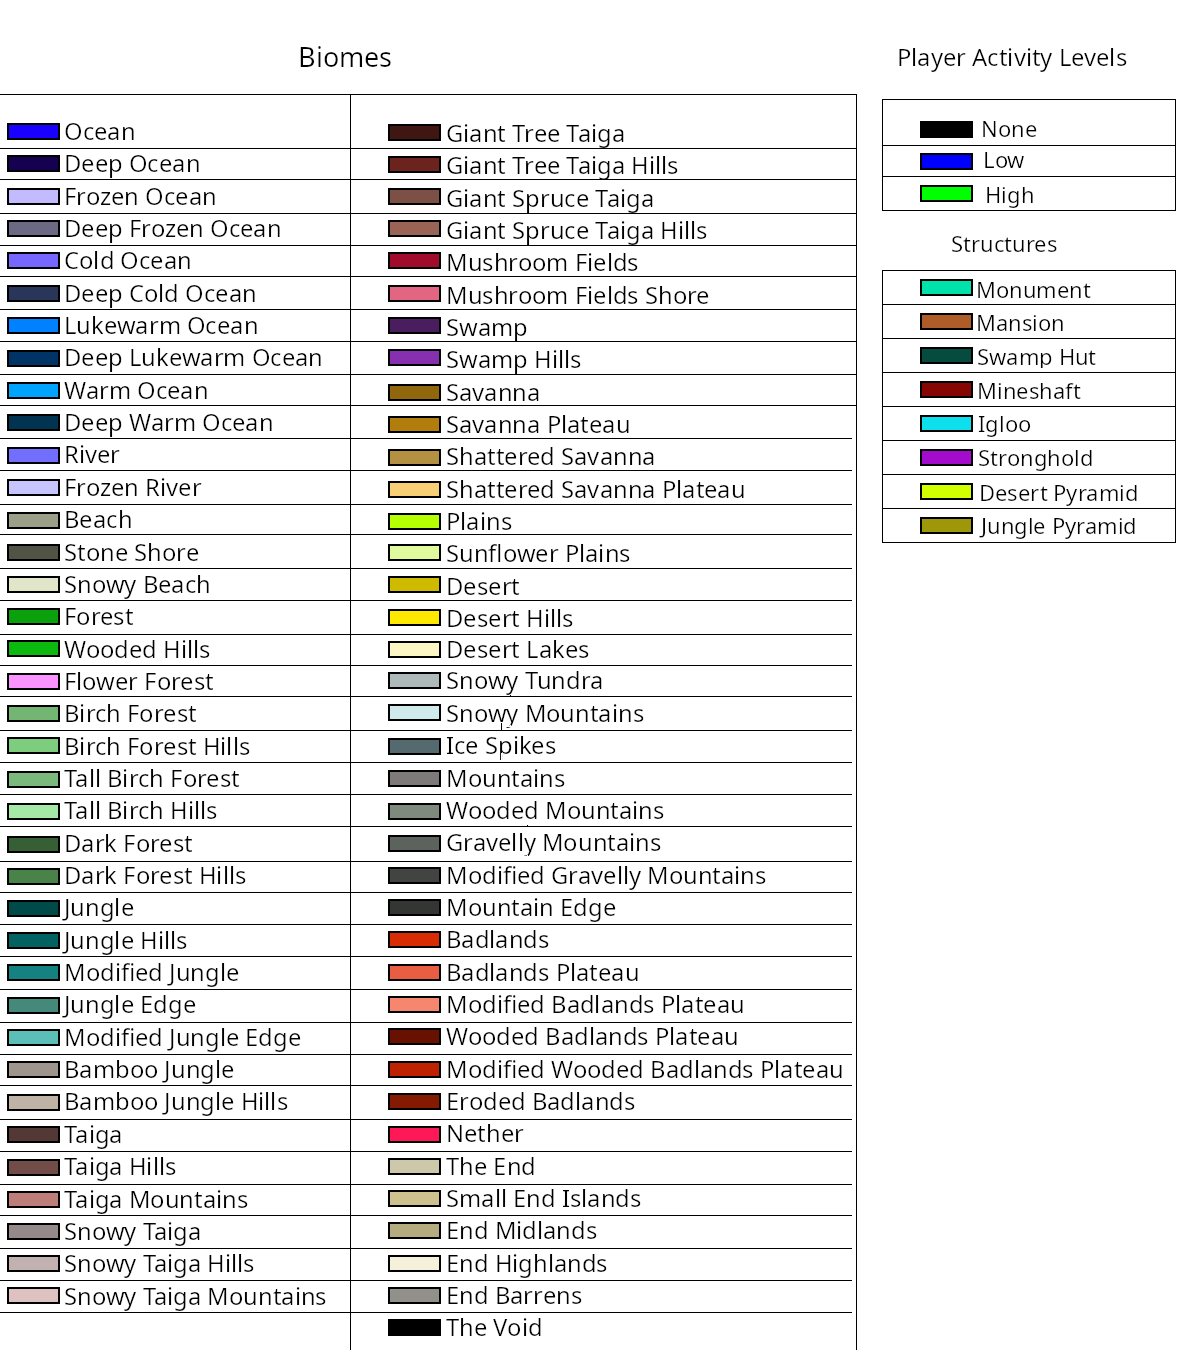
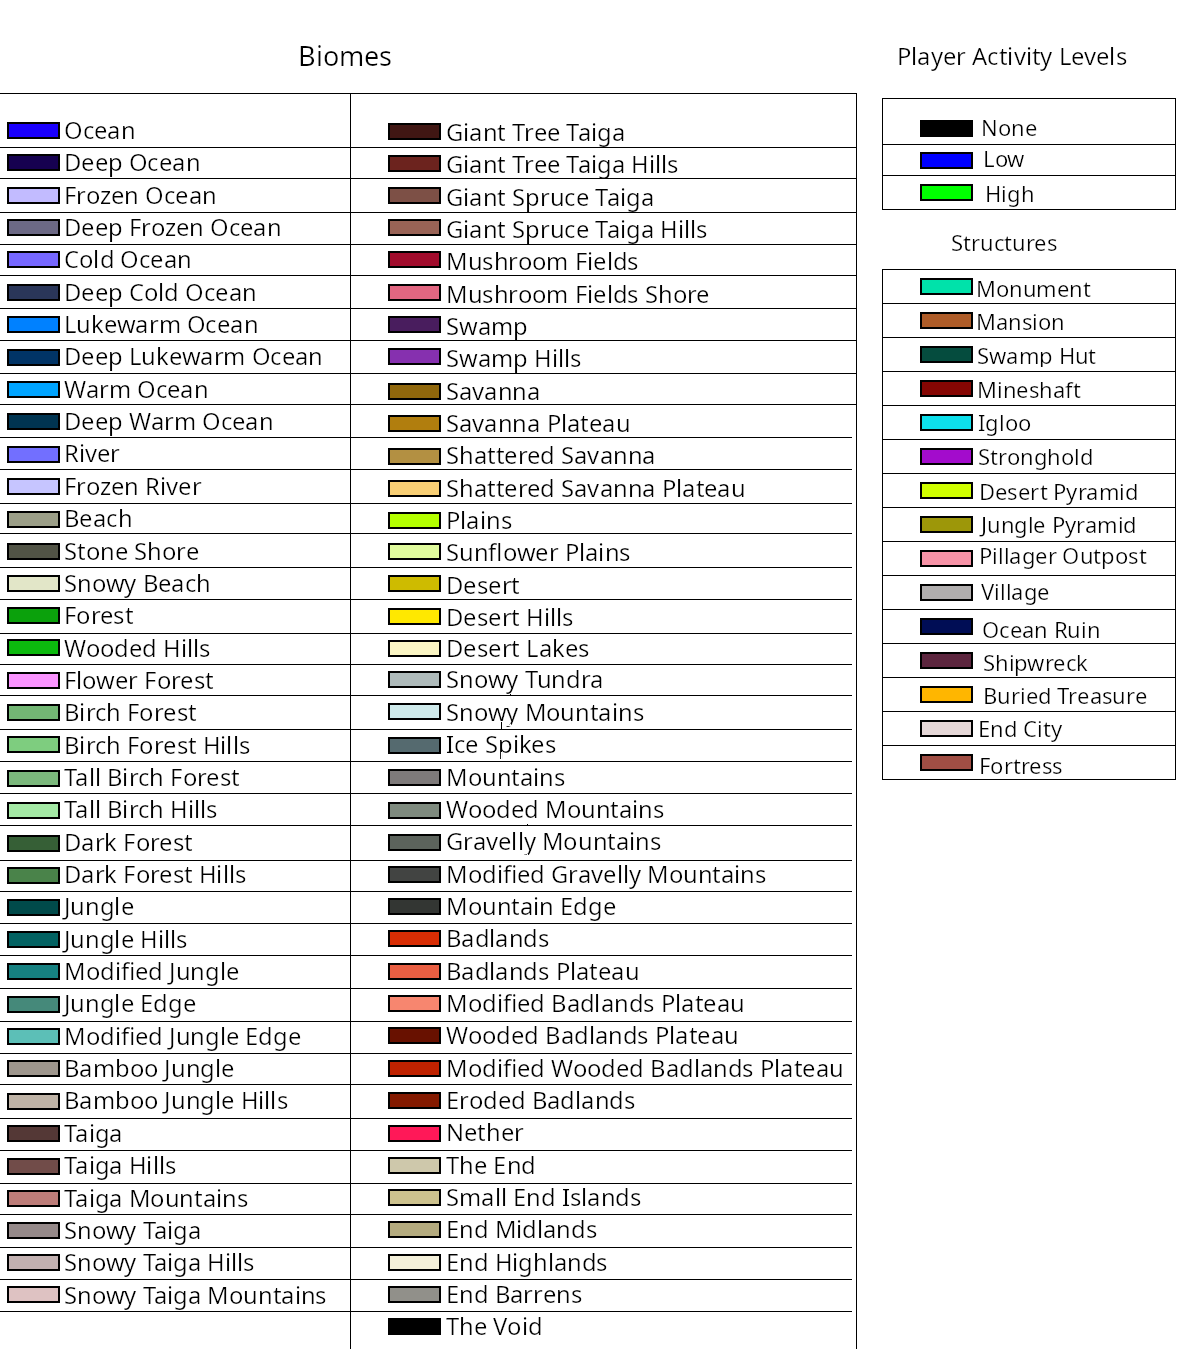
Fixed structure mapping, added missing structure types, updated key

diff --git a/Source/WorldInfo/Structure.cpp b/Source/WorldInfo/Structure.cpp
@@ -24,6 +24,20 @@ std::string structureName(const Structure structure)
             return "Desert_Pyramid";
         case Structure::junglePyramid:
             return "Jungle_Pyramid";
+        case Structure::pillagerOutpost:
+            return "Pillager_Outpost";
+        case Structure::village:
+            return "Village";
+        case Structure::oceanRuin:
+            return "Ocean_Ruin";
+        case Structure::shipwreck:
+            return "Shipwreck";
+        case Structure::buriedTreasure:
+            return "Buried_Treasure";
+        case Structure::endCity:
+            return "EndCity";
+        case Structure::fortress:
+            return "Fortress";
         case Structure::unknown:
             std::cerr << "Invalid structure value.\n";
     };
@@ -43,7 +57,14 @@ Structure parseStructure(const std::string name)
         { "Igloo", Structure::igloo },
         { "Stronghold", Structure::stronghold },
         { "Desert_Pyramid", Structure::desertPyramid },
-        { "Jungle_Pyramid", Structure::junglePyramid }
+        { "Jungle_Pyramid", Structure::junglePyramid },
+        { "Pillager_Outpost", Structure::pillagerOutpost },
+        { "Village", Structure::village },
+        { "Ocean_Ruin", Structure::oceanRuin },
+        { "Shipwreck", Structure::shipwreck },
+        { "Buried_Treasure", Structure::buriedTreasure },
+        { "EndCity", Structure::endCity },
+        { "Fortress", Structure::fortress }
     };
     const auto iter = nameMap.find(name);
     if (iter == nameMap.end())
@@ -76,6 +97,20 @@ png::rgb_pixel getStructureColor(const Structure structure)
                 png::rgb_pixel(0xd0, 0xff, 0x00) },
         { Structure::junglePyramid,
                 png::rgb_pixel(0x9d, 0x97, 0x09) },
+        { Structure::pillagerOutpost,
+                png::rgb_pixel(0x9d, 0x97, 0x09) },
+        { Structure::village,
+                png::rgb_pixel(0xb1, 0xae, 0xae) },
+        { Structure::oceanRuin,
+                png::rgb_pixel(0x00, 0x0d, 0x55) },
+        { Structure::shipwreck,
+                png::rgb_pixel(0x5c, 0x25, 0x3e) },
+        { Structure::buriedTreasure,
+                png::rgb_pixel(0xff, 0xb6, 0x00) },
+        { Structure::endCity,
+                png::rgb_pixel(0xe5, 0xd7, 0xd7) },
+        { Structure::fortress,
+                png::rgb_pixel(0xa0, 0x4e, 0x44) },
     };
     try
     {
@@ -83,7 +118,7 @@ png::rgb_pixel getStructureColor(const Structure structure)
     }
     catch (const std::out_of_range& e)
     {
-        std::cerr << "Invalid structure type " << structure
+        std::cerr << "Invalid structure type " << static_cast<int>(structure)
                 << " encountered.\n";
         return png::rgb_pixel(0, 0, 0);
     }

diff --git a/Source/SaveData/ChunkNBT.cpp b/Source/SaveData/ChunkNBT.cpp
@@ -253,11 +253,17 @@ ChunkData ChunkNBT::getChunkData(const Point pos)
     };
 
     parseTag[NBTTag::tLong] =
-    [this, &readName, &readLong, &lastUpdate, &inhabitedTime]
+    [this, &readName, &readLong, &lastUpdate, &inhabitedTime, &inStructureRefs,
+            &currentStruct, &structures]
     (const bool isNamed)
     {
         std::string name = readName(isNamed);
         std::int64_t longVal = readLong();
+        if(inStructureRefs && currentStruct != Structure::unknown 
+                && !isNamed)
+        {
+            structures.insert(currentStruct);
+        }
         if (name.empty())
         {
             return;
@@ -337,15 +343,7 @@ ChunkData ChunkNBT::getChunkData(const Point pos)
     (const bool isNamed)
     {
         std::string name = readName(isNamed);
-        if (inStructureRefs && currentStructName.empty())
-        {
-            currentStruct = parseStructure(name);
-            if (currentStruct != Structure::unknown)
-            {
-                currentStructName = name;
-            }
-        }
-        else if (!openTags.empty() && openTags.top() == Keys::structure
+        if (!openTags.empty() && openTags.top() == Keys::structure
                 && name == Keys::structureRefs)
         {
             inStructureRefs = true;
@@ -371,10 +369,23 @@ ChunkData ChunkNBT::getChunkData(const Point pos)
     };
 
     parseTag[NBTTag::tLongArray] =
-    [this, &readName, &readByte, &readInt, &parseTag]
+    [this, &readName, &readByte, &readInt, &parseTag, &inStructureRefs,
+            &currentStructName, &currentStruct]
     (const bool isNamed)
     {
         std::string name = readName(isNamed);
+        if (inStructureRefs && currentStructName.empty())
+        {
+            currentStruct = parseStructure(name);
+            if (currentStruct != Structure::unknown)
+            {
+                currentStructName = name;
+            }
+            else
+            {
+                std::cerr << "unknown structure " << name << "\n";
+            }
+        }
         if (name == Keys::biome)
         {
             std::cout << "Found longArray biome list.\n";
@@ -384,16 +395,13 @@ ChunkData ChunkNBT::getChunkData(const Point pos)
         {
             parseTag[NBTTag::tLong](false);
         }
+        currentStruct = Structure::unknown;
+        currentStructName = "";
     };
 
     do
     {
         NBTTag type = static_cast<NBTTag>(readByte());
-        if(inStructureRefs && currentStruct != Structure::unknown 
-                && type != NBTTag::tEnd)
-        {
-            structures.insert(currentStruct);
-        }
         parseTag[type](true);
     }
     while(! openTags.empty() && dataIndex < extractedData.size());

diff --git a/Source/Main.cpp b/Source/Main.cpp
@@ -5,9 +5,7 @@
  */
 
 #include "Debug.h"
-#include "BasicMapper.h"
-#include "BiomeMapper.h"
-#include "ActivityMapper.h"
+#include "MapCollector.h"
 #include "MCAFile.h"
 #include <filesystem>
 #include <string>
@@ -106,14 +104,7 @@ int main(int argc, char** argv)
     {
         imagePath.erase(imagePath.length() - 4);
     }
-    std::string basicPath = imagePath + "_basic.png";
-    BasicMapper basicMapper(basicPath.c_str(), mapEdge, mapEdge, chunkPx);
-    std::string biomePath = imagePath + "_biome.png";
-    BiomeMapper biomeMapper(biomePath.c_str(), mapEdge, mapEdge, chunkPx);
-    std::string activityPath = imagePath + "_activity.png";
-    ActivityMapper activityMapper(activityPath.c_str(), mapEdge, mapEdge,
-            chunkPx);
-
+    MapCollector mappers(imagePath, mapEdge, mapEdge, chunkPx);
 
     // Provide updateCounts so threads can safely change the processed
     // file/chunk counts and print progress.
@@ -137,8 +128,7 @@ int main(int argc, char** argv)
     std::mutex imageLock;
     // Thread function to process a portion of all region files.
     const auto readRegions =
-    [&updateCounts, &regionFiles, &imageLock, &basicMapper, &biomeMapper,
-            &activityMapper]
+    [&updateCounts, &regionFiles, &imageLock, &mappers]
     (const size_t startIndex, const size_t numToRead)
     {
         for (int i = startIndex; i < startIndex + numToRead; i++)
@@ -150,9 +140,7 @@ int main(int argc, char** argv)
             for (const ChunkData& chunk : entryChunks)
             {
                 std::lock_guard<std::mutex> lock(imageLock);
-                basicMapper.drawChunk(chunk);
-                biomeMapper.drawChunk(chunk);
-                activityMapper.drawChunk(chunk);
+                mappers.drawChunk(chunk);
             }
         }
     };
@@ -183,8 +171,6 @@ int main(int argc, char** argv)
     std::cout << "Mapped " << chunkCount << " chunks out of " << numChunks
         << ", map is " << explorePercent << "\% explored.\n";
     
-    basicMapper.saveMapFile();
-    biomeMapper.saveMapFile();
-    activityMapper.saveMapFile();
+    mappers.saveMapFile();
     return 0;
 }

diff --git a/Source/WorldInfo/Structure.h b/Source/WorldInfo/Structure.h
@@ -8,17 +8,26 @@
 #include <string>
 #include <png++/png.hpp>
 
+// Structure values are assigned so that smaller structure types have higher
+// values than larger structure types.
 enum class Structure
 {
-    monument,
-    mansion,
-    swampHut,
-    mineshaft,
-    igloo,
-    stronghold,
-    desertPyramid,
-    junglePyramid,
-    unknown
+    monument = 4,
+    mansion = 5,
+    swampHut = 10,
+    mineshaft = 0,
+    igloo = 11,
+    stronghold = 6,
+    desertPyramid = 7,
+    junglePyramid = 8,
+    pillagerOutpost = 9,
+    village = 1,
+    oceanRuin = 12,
+    shipwreck = 13,
+    buriedTreasure = 14,
+    endCity = 2,
+    fortress = 3,
+    unknown = -1
 };
 
 /**
